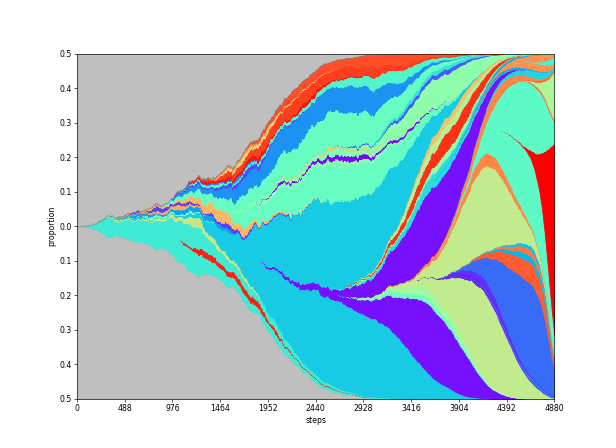
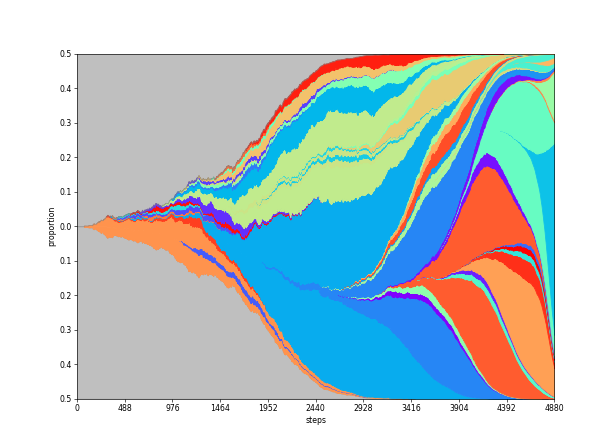
seed is now fixed

diff --git a/tests/test_pyfish.py b/tests/test_pyfish.py
@@ -1,20 +1,18 @@
 import matplotlib.pyplot as plt
 import numpy as np
 import pandas as pd
-from pyfish.core import fish_plot, process_data
+from src.pyfish.core import fish_plot, process_data
 
 
 def test_pyfish():
     populations = np.array(
         [[0, 0, 100], [0, 1, 40], [0, 2, 20], [0, 3, 0], [1, 0, 10], [1, 3, 50],
          [1, 5, 100], [2, 4, 20], [2, 5, 50], [3, 0, 10], [3, 1, 20], [3, 5, 10]])
-
     parent_tree = np.array([[0, 1], [1, 2], [0, 3]])
-
     populations_df = pd.DataFrame(populations, columns=["Id", "Step", "Pop"])
     parent_tree_df = pd.DataFrame(parent_tree, columns=["ParentId", "ChildId"])
-
-    fish_plot(*process_data(populations_df, parent_tree_df, interpolation=2, seed=42))
+    data = process_data(populations_df, parent_tree_df, interpolation=1)
+    fish_plot(*data)
     plt.show()
 
 

diff --git a/src/pyfish/__init__.py b/src/pyfish/__init__.py
@@ -1,1 +1,1 @@
-from pyfish.core import process_data, setup_figure, fish_plot
+from .core import process_data, setup_figure, fish_plot

diff --git a/README.md b/README.md
@@ -10,6 +10,8 @@ PyFish is a Python package for creation of [Fish (Muller) plots](https://en.wiki
 * high performance
 * works with low and high density data
 
+PyFish can be used either as a stand-alone tool or as a plotting library.
+
 ## Installation
 
 PyFish requires Python >= 3.8
@@ -41,7 +43,7 @@ An example populations table:
 | 0   | 1    | 40  |
 | 0   | 2    | 20  |
 | 0   | 3    | 0   |
-| 1   | 1    | 10  |
+| 1   | 0    | 10  |
 | 1   | 3    | 50  |
 | 1   | 5    | 100 |
 | 2   | 4    | 20  |
@@ -66,21 +68,45 @@ An example parent tree:
 
 **Note: there must be exactly one node in the parent tree that has no parent. This is the root (0 in the example above).**
 
-## Execution
 
-PyFish can be used either as a stand-alone tool or as a plotting library.
-
-### Tool 
+## Tool 
 
 We provide example data. From the root folder of the project call: 
 
 `pyfish tests/populations.csv tests/parent_tree.csv out.png`
 
-This will create a plot called `out.png` in the folder. 
+This will create a plot called `out.png` in the folder.  
 
-### Library
+Additional execution parameters are described below.
 
+## Library
 
+The populations and parent_tree tables can be constructed directly as dataframes.
+
+The library contains three public functions:
+
+* `process_data` Takes the input data and parameters and creates data suitable for plotting. 
+Additional arguments match the parameters as described below.
+* `setup_figure` Resizes the figure and adds labels for axes.  
+* `fish_plot` Calls the plotting function on the input parameters.
+
+### Example:
+``` 
+import matplotlib.pyplot as plt
+import numpy as np
+import pandas as pd
+from pyfish import fish_plot, process_data, setup_figure
+
+populations = np.array([[0, 0, 100], [0, 1, 40], [0, 2, 20], [0, 3, 0], [1, 0, 10], [1, 3, 50], 
+    [1, 5, 100], [2, 4, 20], [2, 5, 50], [3, 0, 10], [3, 1, 20], [3, 5, 10]])
+parent_tree = np.array([[0, 1], [1, 2], [0, 3]])
+populations_df = pd.DataFrame(populations, columns=["Id", "Step", "Pop"])
+parent_tree_df = pd.DataFrame(parent_tree, columns=["ParentId", "ChildId"])
+data = process_data(populations_df, parent_tree_df)
+setup_figure()
+fish_plot(*data)
+plt.show()
+```
 
 ## Parameters
 
@@ -92,7 +118,7 @@ Plots absolute population counts at each step.
 |-------------------------------|----------------------------------|
 | ![Base plot](./docs/base.png) | ![Absolute plot](./docs/abs.png) |
 
-###  `-I, --interpolate int`
+### `-I, --interpolate int`
 
 Fills in missing values by interpolation by a polynomial of the given degree. 
 If a value is not given, each population is set to 0 at the first and last step.
@@ -101,20 +127,51 @@ If a value is not given, each population is set to 0 at the first and last step.
 |-------------------------------|------------------------------------------------|
 | ![Base plot](./docs/test.png) | ![Interpolated plot](./docs/interpolation.png) |
 
-* `-S float`
+### `-S, --smooth float`
 
-| Base                          | --smooth = 50                       |
+Smoothing of the graph using Gaussian filter. 
+The parameter value is the standard deviation of the kernel. 
+The bigger the population the bigger the value should be.
+
+**NOTE: If the population values are sparse, using smoothing without interpolation might lead to misleading population sizes.**
+
+| Base                          | --smooth 50                         |
 |-------------------------------|-------------------------------------|
 | ![Base plot](./docs/base.png) | ![Smoothed plot](./docs/smooth.png) |
 
-* `-F int+`, `-L int+`
-* `-M string`
-* `-R int+`
-* `-W int+`, `-H int+`
+### `-F, --first int+`, `-L, --last int+`
 
+Only limits the steps to the range `[first, last]` inclusive.
+
+| Base                          | --first 4000 --last 4500           |
+|-------------------------------|------------------------------------|
+| ![Base plot](./docs/base.png) | ![Smoothed plot](./docs/bound.png) |
+
+### `-M, --cmap string`
+
+Use the specified [matplotlib colormap](https://matplotlib.org/stable/tutorials/colors/colormaps.html). 
+
+Default colormap is rainbow.
+
+| Base                          | --cmap viridis                   |
+|-------------------------------|----------------------------------|
+| ![Base plot](./docs/base.png) | ![Smoothed plot](./docs/map.png) |
+
+
+### `-R, --seed int+`
+
+Specifies the seed for the randomization of colors.
+
+| Base                          | --seed 2022                       |
+|-------------------------------|-----------------------------------|
+| ![Base plot](./docs/base.png) | ![Smoothed plot](./docs/seed.png) |
+
+### `-W, --width int+`, `-H, --height int+`
+
+Specifies the dimensions for the output image. The size is including the axes' labels.
 
 ## Contact
-Email questions, feature requests and bug reports to Adam Streck, adam.streck@mdc-berlin.de.
+Email questions, feature requests and bug reports to Adam Streck, `adam.streck@mdc-berlin.de`.
 
 ## License
 PyFish is available under the MIT License.
